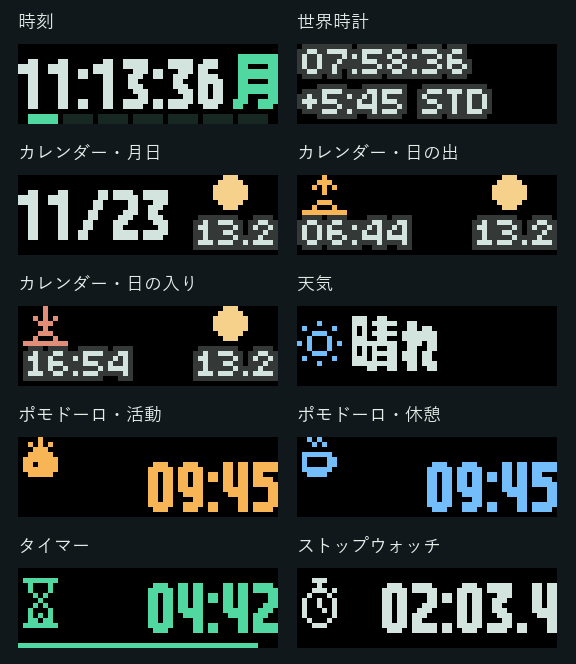
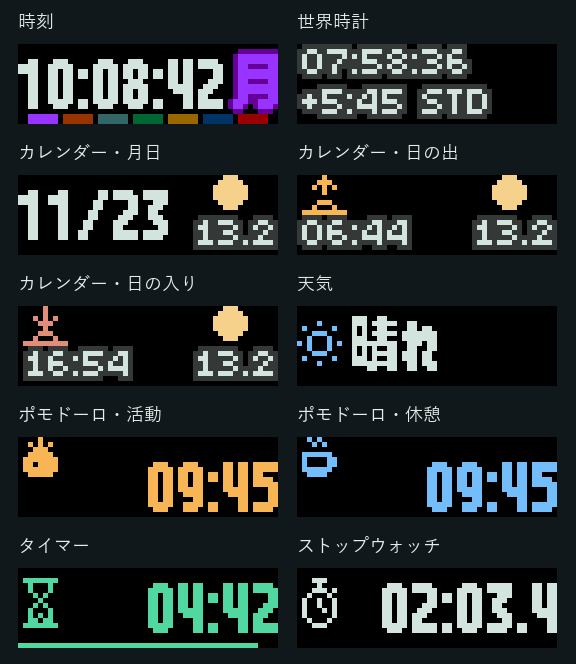
Finalize weekday and holiday documentation

Changed region(s): [[0.0312, 0.0602, 0.5, 0.2108]]

diff --git a/docs/features.md b/docs/features.md
@@ -22,7 +22,7 @@ flowchart LR
         dev["GitHub・Claude・Codex"]
         dot["ChatGPT Dot<br/>（ブラウザー拡張）"]
         sky["Open-Meteo<br/>（天気・空気質）"]
-        hol["内閣府・Nager.Date<br/>（祝日）"]
+        hol["内閣府・holidays<br/>（祝日）"]
     end
     subgraph Clock["TC002"]
         app["機器側アプリ<br/>firmware/"]
@@ -49,9 +49,9 @@ flowchart LR
 
 | 画面・機能 | できること | 詳しく |
 | --- | --- | --- |
-| 時刻 | 時分秒と、右端の漢字・下端の帯で今日の曜日を表示。曜日ごとの配色と祝日の赤（実装中） | [曜日の配色と祝日](operation.md#曜日の配色と祝日) |
+| 時刻 | 時分秒と、右端の漢字・下端の帯で今日の曜日を表示。曜日ごとの配色と祝日の赤 | [曜日の配色と祝日](operation.md#曜日の配色と祝日) |
 | 世界時計 | UTC−12〜＋14 を15分・1時間刻みで調整し、夏時間の ON／OFF を切り替える | [ボタン](operation.md#ボタン) |
-| カレンダー | 月日・日の出・日の入り・月齢。祝日には日本と世界時計の地域の祝日ページを追加（実装中） | [机上で読む画面](operation.md#机上で読む画面) |
+| カレンダー | 月日・日の出・日の入り・月齢。祝日には日本と世界時計の地域の祝日ページを追加 | [机上で読む画面](operation.md#机上で読む画面) |
 | ポモドーロ | 活動25〜45分（5分刻み）と休憩。活動は琥珀色、休憩は青色 | [ボタン](operation.md#ボタン) |
 | BUSY | どの画面からもノブ＋中央で呼び出し、BUSY と REST を計時 | [ボタン](operation.md#ボタン) |
 | タイマー | 1〜1440分。期限後はアラームと超過時間を表示 | [ボタン](operation.md#ボタン) |
@@ -84,7 +84,7 @@ flowchart LR
 | 利用残量と追加クレジット | 契約枠の残率とリセットまでの時間、今期の追加消費と上限 | [机上で読む画面](operation.md#机上で読む画面) |
 | スクロール通知（7種類） | Issue 起票・PR 作成・PR 終了・GitHub Action 失敗・Claude 入力依頼・Codex 入力依頼・GPT dot 新着通知。BUSY・REST の計時中も流れる | [机上で読む画面](operation.md#机上で読む画面) |
 | ChatGPT Dot の新着 | Edge・Chrome の拡張機能が新着の ID と時刻だけをブリッジへ渡す | [Dot の新着を受け取る](operation.md#chatgpt-dot-の新着を受け取る) |
-| 祝日と曜日配色の設定（実装中） | 日本と世界時計の代表地域の祝日、設定アプリで選んだ配色を時計へ送る | [曜日の配色と祝日](operation.md#曜日の配色と祝日) |
+| 祝日と曜日配色の設定 | 日本と世界時計の代表地域の祝日、設定アプリで選んだ配色を時計へ送る | [曜日の配色と祝日](operation.md#曜日の配色と祝日) |
 | 通信断・未取得の表示 | 最終取得値と取得日時を `OLD`・`OFF` 付きで表示し、初回は「未取得」と明示 | [机上で読む画面](operation.md#机上で読む画面) |
 | 確認日時付きの取込 | 自動取得できない予定・状態・金額を、サービス画面で確認した日時とともに JSON で取り込む | [確認日時付きの取込](operation.md#確認日時付きの取込) |
 
@@ -96,7 +96,7 @@ flowchart LR
 
 | ページ | できること |
 | --- | --- |
-| 接続と表示 | 時計の IPv4 と ADB、天気の地点（地図と住所検索）、GitHub の監視対象、時計の曜日配色（実装中）を保存し、PC ブリッジを起動・停止・状態確認する |
+| 接続と表示 | 時計の IPv4 と ADB、天気の地点（地図と住所検索）、GitHub の監視対象、時計の曜日配色を保存し、PC ブリッジを起動・停止・状態確認する |
 | OS セットアップ | PC 用ツールの準備、独自プロジェクトの生成、IDE の起動、ARM ビルド、時計での一時実行と終了、標準効果音の取り込み、Wi-Fi 常設の手順、TF カードへのコピーと照合 |
 
 ## 導入と更新
@@ -119,6 +119,6 @@ flowchart LR
 
 ## 開発状況
 
-- **実装中**　曜日の配色と祝日表示（2026年11月28日〜）。設定名や表示は変わる場合があります。
+- **実装済み**　曜日の配色と祝日表示（2026年11月28日）。Windows設定、PCブリッジ、時計画面とカレンダーを一体で確認しています。
 - **未検証**　物理 TF カードからの更新と常設後の再起動、標準アプリ 2.x からの Wi-Fi 常設。
 - **実機での確認記録**　[README の動作確認](../README.md#動作確認)・[操作ガイドの確認](operation.md#確認)

diff --git a/docs/requirements.md b/docs/requirements.md
@@ -1,6 +1,6 @@
 # TC002 開発者向けスマートクロック 要件定義 v0.1
 
-2026-11-23 利用者確認済み。Q19の短押し・長押しに関する最終指定を反映。2026-11-28、曜日の配色と祝日表示を追加（実装中）。日本語で開発する人が、机上のTC002で時刻と作業状況を確認し、手元で計時できるようにする。各表の確認例は、試作や実機で合否を判定するための基準である。
+2026-11-23 利用者確認済み。Q19の短押し・長押しに関する最終指定を反映。2026-11-28、曜日の配色と祝日表示を追加。日本語で開発する人が、机上のTC002で時刻と作業状況を確認し、手元で計時できるようにする。各表の確認例は、試作や実機で合否を判定するための基準である。
 
 ## 利用者要件
 
@@ -68,7 +68,7 @@ PR通知とPR一覧は同じ小カテゴリ内で扱う。Issue通知とIssue一
 
 ### 曜日配色と祝日
 
-2026-11-28追加・実装中。時刻画面の右端の曜日漢字と、下端の曜日帯（月曜始まりの7区画）を曜日ごとの色で描く。曜日漢字は塗りの色で描き、上下左右1ドットを縁取りの色で囲む。曜日帯は今日の区画を塗りの色、ほかの曜日を縁取りの色で示す。
+2026-11-28追加。時刻画面の右端の曜日漢字と、下端の曜日帯（月曜始まりの7区画）を曜日ごとの色で描く。曜日漢字は塗りの色で描き、上下左右1ドットを縁取りの色で囲む。曜日帯は今日の区画を塗りの色、ほかの曜日を縁取りの色で示す。
 
 | 曜日 | 塗り | 縁取り |
 | --- | --- | --- |
@@ -91,7 +91,7 @@ PR通知とPR一覧は同じ小カテゴリ内で扱う。Issue通知とIssue一
 | `all_holidays`（初期値） | すべての曜日を変更（祝日を含む） | 全曜日・祝日 | 日曜の赤 |
 
 - **設定の保存**　設定はPCブリッジのフィードで時計に届き、時計本体の設定ファイルにも保存する。PCブリッジが止まっても、選んだ配色を保つ。
-- **祝日データ**　PCブリッジが、日本の祝日を内閣府の「国民の祝日」CSV、ほかの代表地域の国民の祝日をNager.Date（Nager.Holidays API v4）から年単位で取得し、6時間ごとに更新してフィードで送る。取得に失敗したときは前回の取得分を送る。取得元と利用条件は[第三者素材の告知](../THIRD_PARTY_NOTICES.md#祝日データ)に記す。時計は受信済みのデータを日付とUTC時差で選ぶ。日本の祝日は日本時間の日付で判定する。再起動後、フィードを受信するまでは祝日を判定しない。
+- **祝日データ**　PCブリッジが、日本の祝日を内閣府の「国民の祝日」CSVから取得し、ほかの代表地域の国民の祝日を `holidays==0.109` の規則から年単位でローカル生成する。6時間ごとに更新してフィードで送り、内閣府からの取得に失敗したときは前回の取得分を送る。取得元と利用条件は[第三者素材の告知](../THIRD_PARTY_NOTICES.md#祝日データ)に記す。時計は受信済みのデータを日付とUTC時差で選ぶ。日本の祝日は日本時間の日付で判定する。再起動後、フィードを受信するまでは祝日を判定しない。
 - **暦の祝日ページ**　月日・日の出・日の入りに続けて、当日の日本の祝日（例「日本 勤労感謝の日」）と、世界時計の実効UTC時差（夏時間を含む）に対応する代表地域の国民の祝日（例「US Thanksgiving Day」）を追加ページとして表示する。代表地域の祝日は世界時計の現地日付で判定する。世界時計が日本と同じUTC+9なら重複して表示しない。祝日名はでんきチップ（ない字はマルミーニャ）で描き、52ドットに収まらない名前は横スクロールする。各ページは少なくとも4.5秒表示する。
 - **代表地域**　世界時計は地名ではなくUTC時差を保持するため、時差ごとに代表国を1つ決める。日本の祝日名は日本語、ほかの地域は英語とし、地域は国コードで示す。例えばUTC−5は米国、UTC±0は英国、UTC+5:30はインド。対応表の正本は [bridge/holiday_calendar.py](../bridge/holiday_calendar.py) の `REPRESENTATIVE_ZONES`。
 

diff --git a/README.md b/README.md
@@ -12,7 +12,7 @@ Ulanzi TC002 の 52 × 16 ドット画面で日本語の時計、タイマー、
 
 | 時計だけで | PC ブリッジを加えると | Windows 設定アプリで |
 | --- | --- | --- |
-| 時刻・世界時計・カレンダー（月齢・日の出・日の入り）・ポモドーロ・BUSY・タイマー・ストップウォッチ。2進数の時報と、時計から取り込んだ標準効果音 | 天気、GitHub・Claude・Codex の予定・セッション・利用残量、7種類のスクロール通知、祝日（実装中） | 接続先・天気の地点・監視対象・曜日配色の設定、機器側アプリのビルド・一時実行・常設 |
+| 時刻・世界時計・カレンダー（月齢・日の出・日の入り）・ポモドーロ・BUSY・タイマー・ストップウォッチ。2進数の時報と、時計から取り込んだ標準効果音 | 天気、GitHub・Claude・Codex の予定・セッション・利用残量、7種類のスクロール通知、祝日 | 接続先・天気の地点・監視対象・曜日配色の設定、機器側アプリのビルド・一時実行・常設 |
 
 構成図と全機能の一覧は [機能の全体像](docs/features.md) にまとめています。
 
@@ -56,7 +56,7 @@ Ulanzi TC002 の 52 × 16 ドット画面で日本語の時計、タイマー、
 
 地図の出典は国土地理院です。住所検索は東京大学空間情報科学研究センターのサービスを利用しています。[地理院タイル一覧](https://maps.gsi.go.jp/development/ichiran.html)・[広域図の出典](studio/assets/map-credits.txt)・[CSISシンプルジオコーディング実験を利用](https://geocode.csis.u-tokyo.ac.jp/)
 
-### 時計の曜日配色を選ぶ（実装中）
+### 時計の曜日配色を選ぶ
 
 「接続と表示」→「時計の曜日配色」で、時刻画面の曜日を色分けする範囲を5つから選び、「設定を保存」を押します。初期値は「すべての曜日を変更（祝日を含む）」で、日本の祝日は日曜と同じ赤になります。カレンダーには、日本の祝日と世界時計の地域の祝日も表示されます。[曜日の配色と祝日](docs/operation.md#曜日の配色と祝日)
 

diff --git a/THIRD_PARTY_NOTICES.md b/THIRD_PARTY_NOTICES.md
@@ -37,12 +37,12 @@ py -3.12 scripts/build-device.py --regenerate-audio $encoder
 
 ## 祝日データ
 
-PC ブリッジは、時計のカレンダーと曜日配色に使う祝日を次の2か所から実行時に取得します。祝日データはこのリポジトリに同梱しません。時計には日付・UTC 時差・地域コード・祝日名だけを送ります。
+PC ブリッジは、時計のカレンダーと曜日配色に使う祝日を、内閣府の公開データと Python パッケージの祝日規則から実行時に作ります。祝日データはこのリポジトリに同梱しません。時計には日付・UTC 時差・地域コード・祝日名だけを送ります。
 
 | 対象 | 取得元 | 利用条件 |
 | --- | --- | --- |
 | 日本の祝日 | 内閣府「国民の祝日について」の CSV（`syukujitsu.csv`）。翌年分は例年2月に掲載されます。 | 内閣府ホームページの利用規約（公共データ利用規約 第1.0版）。出典：内閣府ホームページ「[国民の祝日について](https://www8.cao.go.jp/chosei/shukujitsu/gaiyou.html)」・[利用規約](https://www.cao.go.jp/notice/rule.html) |
-| 世界時計の代表地域の国民の祝日 | [Nager.Date](https://github.com/nager/Nager.Date)（ソフトウェアは MIT License、© 2016 nager.at）の公開 API（Nager.Holidays API v4）。種別が Public の全国祝日だけを使います。 | Nager.Holidays の利用規約では、Web API は私的・非営利の利用に限られ、商用利用にはスポンサー登録が必要です。可用性と正確性は保証されません。[利用規約](https://nagerholidays.com/legal/termsofservice)・[API](https://nagerholidays.com/api) |
+| 世界時計の代表地域の国民の祝日 | [holidays](https://github.com/vacanza/holidays) 0.109（Vacanza Team）が持つ各国の祝日規則からローカルで生成。実行時に外部の祝日 API へは接続しません。 | MIT License。[ライセンス](https://github.com/vacanza/holidays/blob/dev/LICENSE) |
 
 ## ビルド時に取得するソフトウェア
 

diff --git a/docs/studio-requirements.md b/docs/studio-requirements.md
@@ -1,6 +1,6 @@
 # Ulanzi TC002 JPエンジニア向けOS設定の要件
 
-2026年11月24日（2026年11月28日に曜日配色の設定を追加、実装中）。対象は Windows で自分の TC002 を設定する利用者。TC002 の既存 Linux 上で動く独自時計アプリ、PC 側の設定アプリ、セットアップ手順をひとつのリポジトリから利用できるようにする。
+2026年11月24日（2026年11月28日に曜日配色の設定を追加）。対象は Windows で自分の TC002 を設定する利用者。TC002 の既存 Linux 上で動く独自時計アプリ、PC 側の設定アプリ、セットアップ手順をひとつのリポジトリから利用できるようにする。
 
 | 機能 | 完了条件 |
 | --- | --- |
